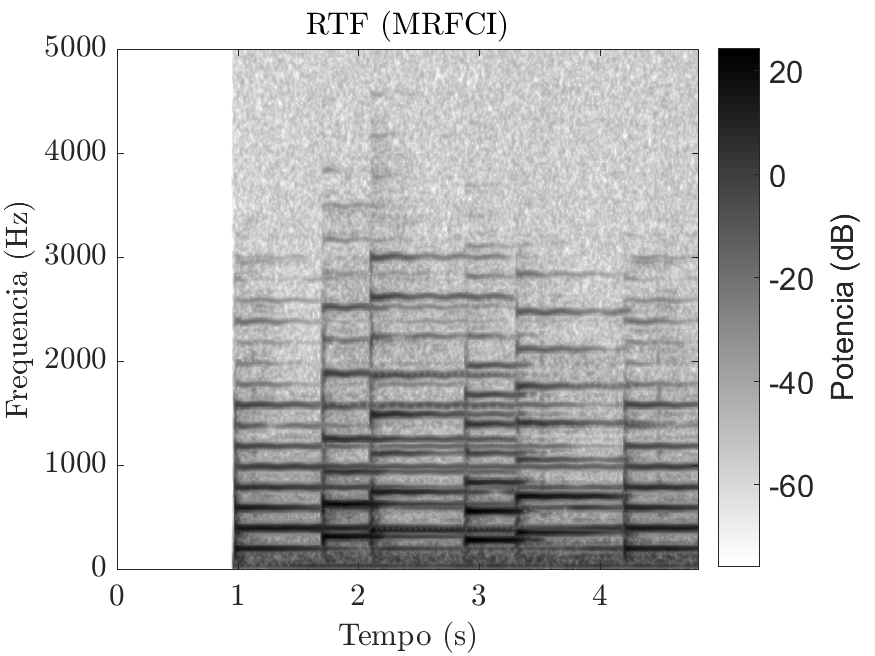
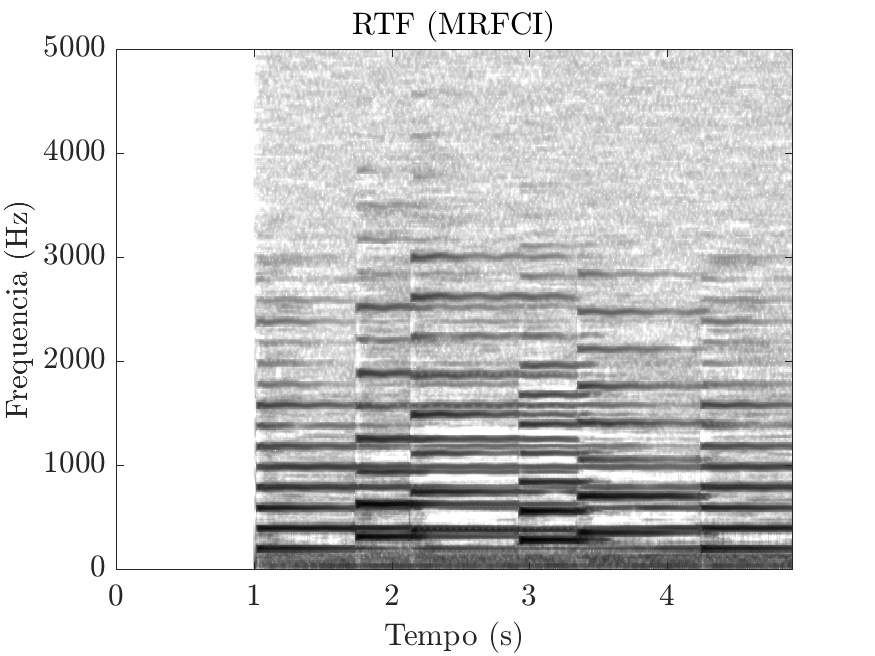
random exp run, started integrating HPSS into SA

diff --git a/Projeto_Final/HPSS_Experiment.m b/Projeto_Final/HPSS_Experiment.m
@@ -1,4 +1,4 @@
-TFAnalysis_Experiment;
+%TFAnalysis_Experiment;
 
 if isunix
     figsPath = path_check('./figures_out/HPSS_Experiment/');
@@ -7,15 +7,13 @@ else
 end
 
 % Method
-%method_name = {'STFT', 'MRFCI', 'FLS'}; % TFR Methods available
-%method_flags = [1 1 1]; % Which method will be enabled
+%method_name = {'STFT', 'CQT', 'FLS', 'MRFCI'}; % TFR Methods available
+%method_flags = [0 0 0 1]; % Which method will be enabled
 methods_enabled = find(method_flags);
 
 nFilterSS = 71; % Must be odd
 nFilterTr = 71; % Must be odd
-
 nIter = 1;
-
 method = 'median'; % 'median' or 'SSE'
 
 plot_enable = 1;
@@ -27,7 +25,8 @@ TFR_Tr = {};
 TFR_Res = {};
 
 for i = methods_enabled
-    [TFR_SS{i}, TFR_Tr{i}, TFR_Res{i}] = Iterative_HPR_Separation(TFR{i}, nFilterSS, nFilterTr, nIter, method,'relaxed');
+    %[TFR_SS{i}, TFR_Tr{i}, TFR_Res{i}] = Iterative_HPR_Separation(TFR{i}, nFilterSS, nFilterTr, nIter, method,'relaxed');
+    [TFR_SS{i}, TFR_Tr{i}, TFR_Res{i}] = Iterative_HPR_Separation(TFR_base, nFilterSS, nFilterTr, nIter, method);
 end
 
 %% - - - - - - Making first frame zero
@@ -43,7 +42,7 @@ if plot_enable
         title(sprintf('Estado Permanente (filtro %ix%i, %s)', nFilterSS,nFilterTr,method_name{i}));
 
         if print_figures
-            tit = ['i_' num2str(nIter) '_' num2str(nFilterSS) '_' num2str(nFilterTr) '_' method_name{i} '_SS_enhanced_relaxed'];
+            tit = ['i_' num2str(nIter) '_' num2str(nFilterSS) '_' num2str(nFilterTr) '_' method_name{i} '_SS_enhanced'];
             tit(tit=='.') = '_'; tit(tit==' ') = '';
             figProp = struct('size', 15,'font','Helvetica','lineWidth',2,'figDim',[1 1 560 420]); % Thesis
             figFileName = [figsPath tit];
@@ -56,7 +55,7 @@ if plot_enable
         title(sprintf('Transitorio (filtro %ix%i, %s)', nFilterSS,nFilterTr,method_name{i}));
 
         if print_figures
-            tit = ['i_' num2str(nIter) '_' num2str(nFilterSS) '_' num2str(nFilterTr) '_' method_name{i} '_Tr_enhanced_relaxed'];
+            tit = ['i_' num2str(nIter) '_' num2str(nFilterSS) '_' num2str(nFilterTr) '_' method_name{i} '_Tr_enhanced'];
             tit(tit=='.') = '_'; tit(tit==' ') = '';
             figProp = struct('size', 15,'font','Helvetica','lineWidth',2,'figDim',[1 1 560 420]); % Thesis
             figFileName = [figsPath tit];

diff --git a/Projeto_Final/functions/sin_analysis/SinusoidalAnalysis.m b/Projeto_Final/functions/sin_analysis/SinusoidalAnalysis.m
@@ -26,7 +26,14 @@ function [TFR_base,signalTrackArray,TFParams] = SinusoidalAnalysis(inputSignal,f
         else
             error('Invalid TFR Method. Options are STFT, CQT, FLS or MRFCI.')
         end
-            
+        
+        % -------------------------- HPSS stage -------------------------------
+        nFilterSS = 71; % Must be odd
+        nFilterTr = 71; % Must be odd
+        nIter = 1;
+        method = 'median'; % 'median' or 'SSE'
+        [TFR_base, ~, ~] = Iterative_HPR_Separation(TFR_base, nFilterSS, nFilterTr, nIter, method);
+        
         %TFR Information    
         powerMatrix = 10*log10(TFR_base);
         %powerMatrix = TFR_base;
@@ -52,7 +59,8 @@ function [TFR_base,signalTrackArray,TFParams] = SinusoidalAnalysis(inputSignal,f
 
         fprintf(' Total frames: %i\n',totalFrames);
         fprintf(' Number of frequency bins: %i\n',signalFrame.totalFreqBins);
-        fprintf('\nShort-Time Fourier Transform Finished.\n');
+        fprintf(' Method: %s\n', TFR_method)
+        fprintf('\nTime-frequency analysis finished.\n');
 
         %if DEBUG == 1 %call plot
             %PlotSpectrogram(freqComponents,timeInstants,powerMatrix);
@@ -60,7 +68,7 @@ function [TFR_base,signalTrackArray,TFParams] = SinusoidalAnalysis(inputSignal,f
 
     % ---------------------------------------------- Peak Detection ------------------------------------------------
 
-        fprintf('\nPeak Detection Starting...\n');
+        fprintf('\nPeak detection starting...\n');
 
         for frameCounter = 1:totalFrames
             signalFrame.currentFrame = frameCounter;
@@ -86,7 +94,7 @@ function [TFR_base,signalTrackArray,TFParams] = SinusoidalAnalysis(inputSignal,f
             title(sprintf('Quadro %i de %i (%s)',DEBUG_FRAME,totalFrames,TFR_method))
         end
 
-        fprintf('Peak Detection Finished.\n');
+        fprintf('Peak detection finished.\n');
 
     % ---------------------------------------- Sinusoidal Tracking -----------------------------------------------
 

diff --git a/Projeto_Final/functions/TFR_combs/TFAnalysis_MRFCI.m b/Projeto_Final/functions/TFR_combs/TFAnalysis_MRFCI.m
@@ -10,9 +10,9 @@ function [combined_TFR_MRFCI, f, t] = TFAnalysis_MRFCI(x,fs)
 
         % Synthesis TFR - - - - - - - - - - - - - - - - - - -
         N_alphas = 7; % Number of alphas (I, in the paper)
-        Nf = [1024 2048 3072 4096 8192]; % Window sizes
-        asym_flags = [0 0 0 0 1]; % Indicate which Nf will be used to compute Fan-chirp instances
-        FChT_flags = [0 0 0 1 1]; % Indicate which Nf will be used to compute Fan-chirp instances
+        Nf = [1024 2048 3072 4096]; % Window sizes
+        asym_flags = [0 0 0 1]; % Indicate which Nf will be used to compute Fan-chirp instances
+        FChT_flags = [0 0 1 1]; % Indicate which Nf will be used to compute Fan-chirp instances
 
         % Structure tensor - - - - - - - - -
         C_limits = [0 .25 .75 1 ; 1 2 2 3]; % Defines the points of transition for the lambda weights
@@ -22,7 +22,7 @@ function [combined_TFR_MRFCI, f, t] = TFAnalysis_MRFCI(x,fs)
         sigma_t = Nf(end)/(4*fs); % in s
         sigma_f = 100;% in Hz
 
-        Nf_structure_tensor = Nf(4); % To compute the structure tensor
+        Nf_structure_tensor = Nf(2); % To compute the structure tensor
 
     %% - - - - - - -  TFR computation - - - - - - -
 

diff --git a/Projeto_Final/functions/sin_analysis/PeakDetection.m b/Projeto_Final/functions/sin_analysis/PeakDetection.m
@@ -10,9 +10,9 @@ function [detectedPeakMatrix,spectrumThreshold] = PeakDetection(inputFrame,sampl
     %
 
     %Parameters
-    peakProminence = 20; %in dB. This is for the findpeaks function. Controls how proeminent detected peaks must be.
+    peakProminence = 18; %in dB. This is for the findpeaks function. Controls how proeminent detected peaks must be.
 
-    thresholdOffset = 0; %in DB
+    thresholdOffset = 10; %in DB
     hardThreshold = 80; %in DB
     freqThreshold = 5000; %in Hz
 

diff --git a/Projeto_Final/functions/plots/PlotSpectrogram_ylin.m b/Projeto_Final/functions/plots/PlotSpectrogram_ylin.m
@@ -27,9 +27,9 @@ function PlotSpectrogram_ylin(freqs,times,plotLimits,powerSpectrgDB)
         xlabel('Tempo (s)','FontSize', 15)
         ylabel('Frequencia (Hz)','FontSize', 15)
         
-        hcol = colorbar;
-        set(hcol, 'FontSize', 15)
-        ylabel(hcol, 'Potencia (dB)')
+        %hcol = colorbar;
+        %set(hcol, 'FontSize', 15)
+        %ylabel(hcol, 'Potencia (dB)')
 
         set(gca,'FontSize', 15)
         ax = gca;

diff --git a/Projeto_Final/functions/transient_ss_separation/Median_filter_relaxed.m b/Projeto_Final/functions/transient_ss_separation/Median_filter_relaxed.m
@@ -40,7 +40,7 @@ function [ spectrg_SS, spectrg_Tr ] = Median_filter_relaxed(spectrg,nFilter_SS,n
         end
 
     %% Median filtering along frequency
-        disp('done with time')
+        %disp('done with time')
         for k = 1:freqHeight
             if (k > nFilter_Tr) && (k <= freqHeight-nFilter_Tr)
                 spectrg_Tr(k,:) = median(spectrg(k-nFilter_Tr:k+nFilter_Tr,:),1);

diff --git a/Projeto_Final/TFAnalysis_Experiment.m b/Projeto_Final/TFAnalysis_Experiment.m
@@ -15,7 +15,8 @@ end
     %signal_name = 'violin_drum2.wav';
     %signal_name = 'MusicDelta_Hendrix_STEM_04.RESYN.wav';
     %signal_name = 'Paulistana1_5s.wav';
-    signal_name = 'Mix1.wav';
+    %signal_name = 'Mix1.wav';
+    signal_name = 'paulistana3_5s.wav';
     %signal_name = 'MusicDelta_Pachelbel_STEM_04_Cut.RESYN.wav';
 
     fs = 44100;
